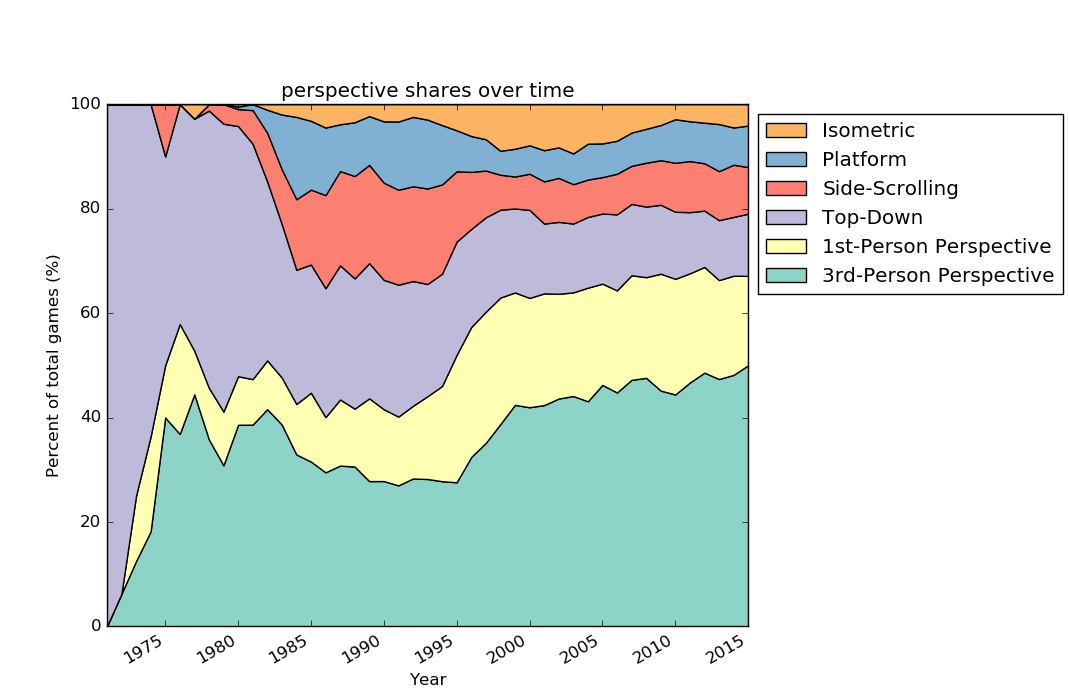
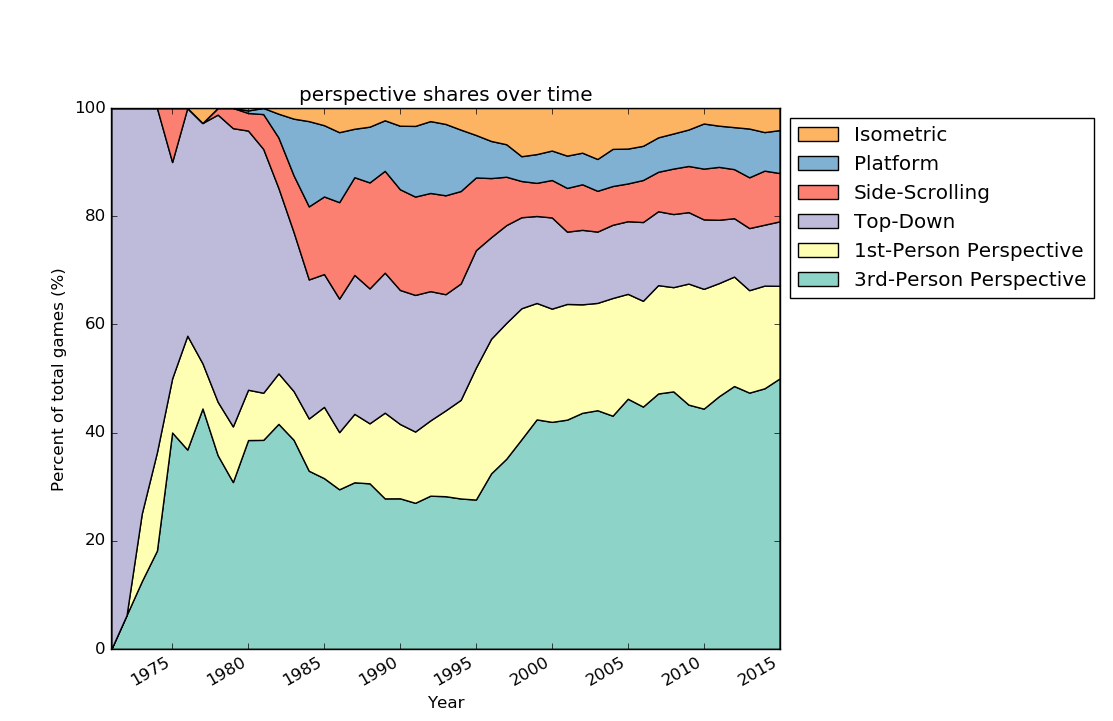
remove occurrence of duplicate colors in graphs

diff --git a/scripts/moby_genre.py b/scripts/moby_genre.py
@@ -57,7 +57,7 @@ def showPercentagesOverTime(field):
 
     fig = plt.figure()
     ax = fig.add_axes([0.1, 0.1, 0.6, 0.75])
-    ax.set_prop_cycle(cycler('color', ['#8dd3c7','#ffffb3','#bebada','#fb8072','#80b1d3','#fdb462','#b3de69','#fccde5','#d9d9d9','#bc80bd','#ccebc5','#ffed6f']))
+    ax.set_prop_cycle(cycler('color', ['#8dd3c7','#ffffb3','#bebada','#fb8072','#80b1d3','#fdb462','#b3de69','#fccde5','#d9d9d9','#bc80bd', '#ffe8c7', '#ccebc5','#ffed6f']))
     y = np.row_stack(dataArray)
 
     # sort by total for each field
